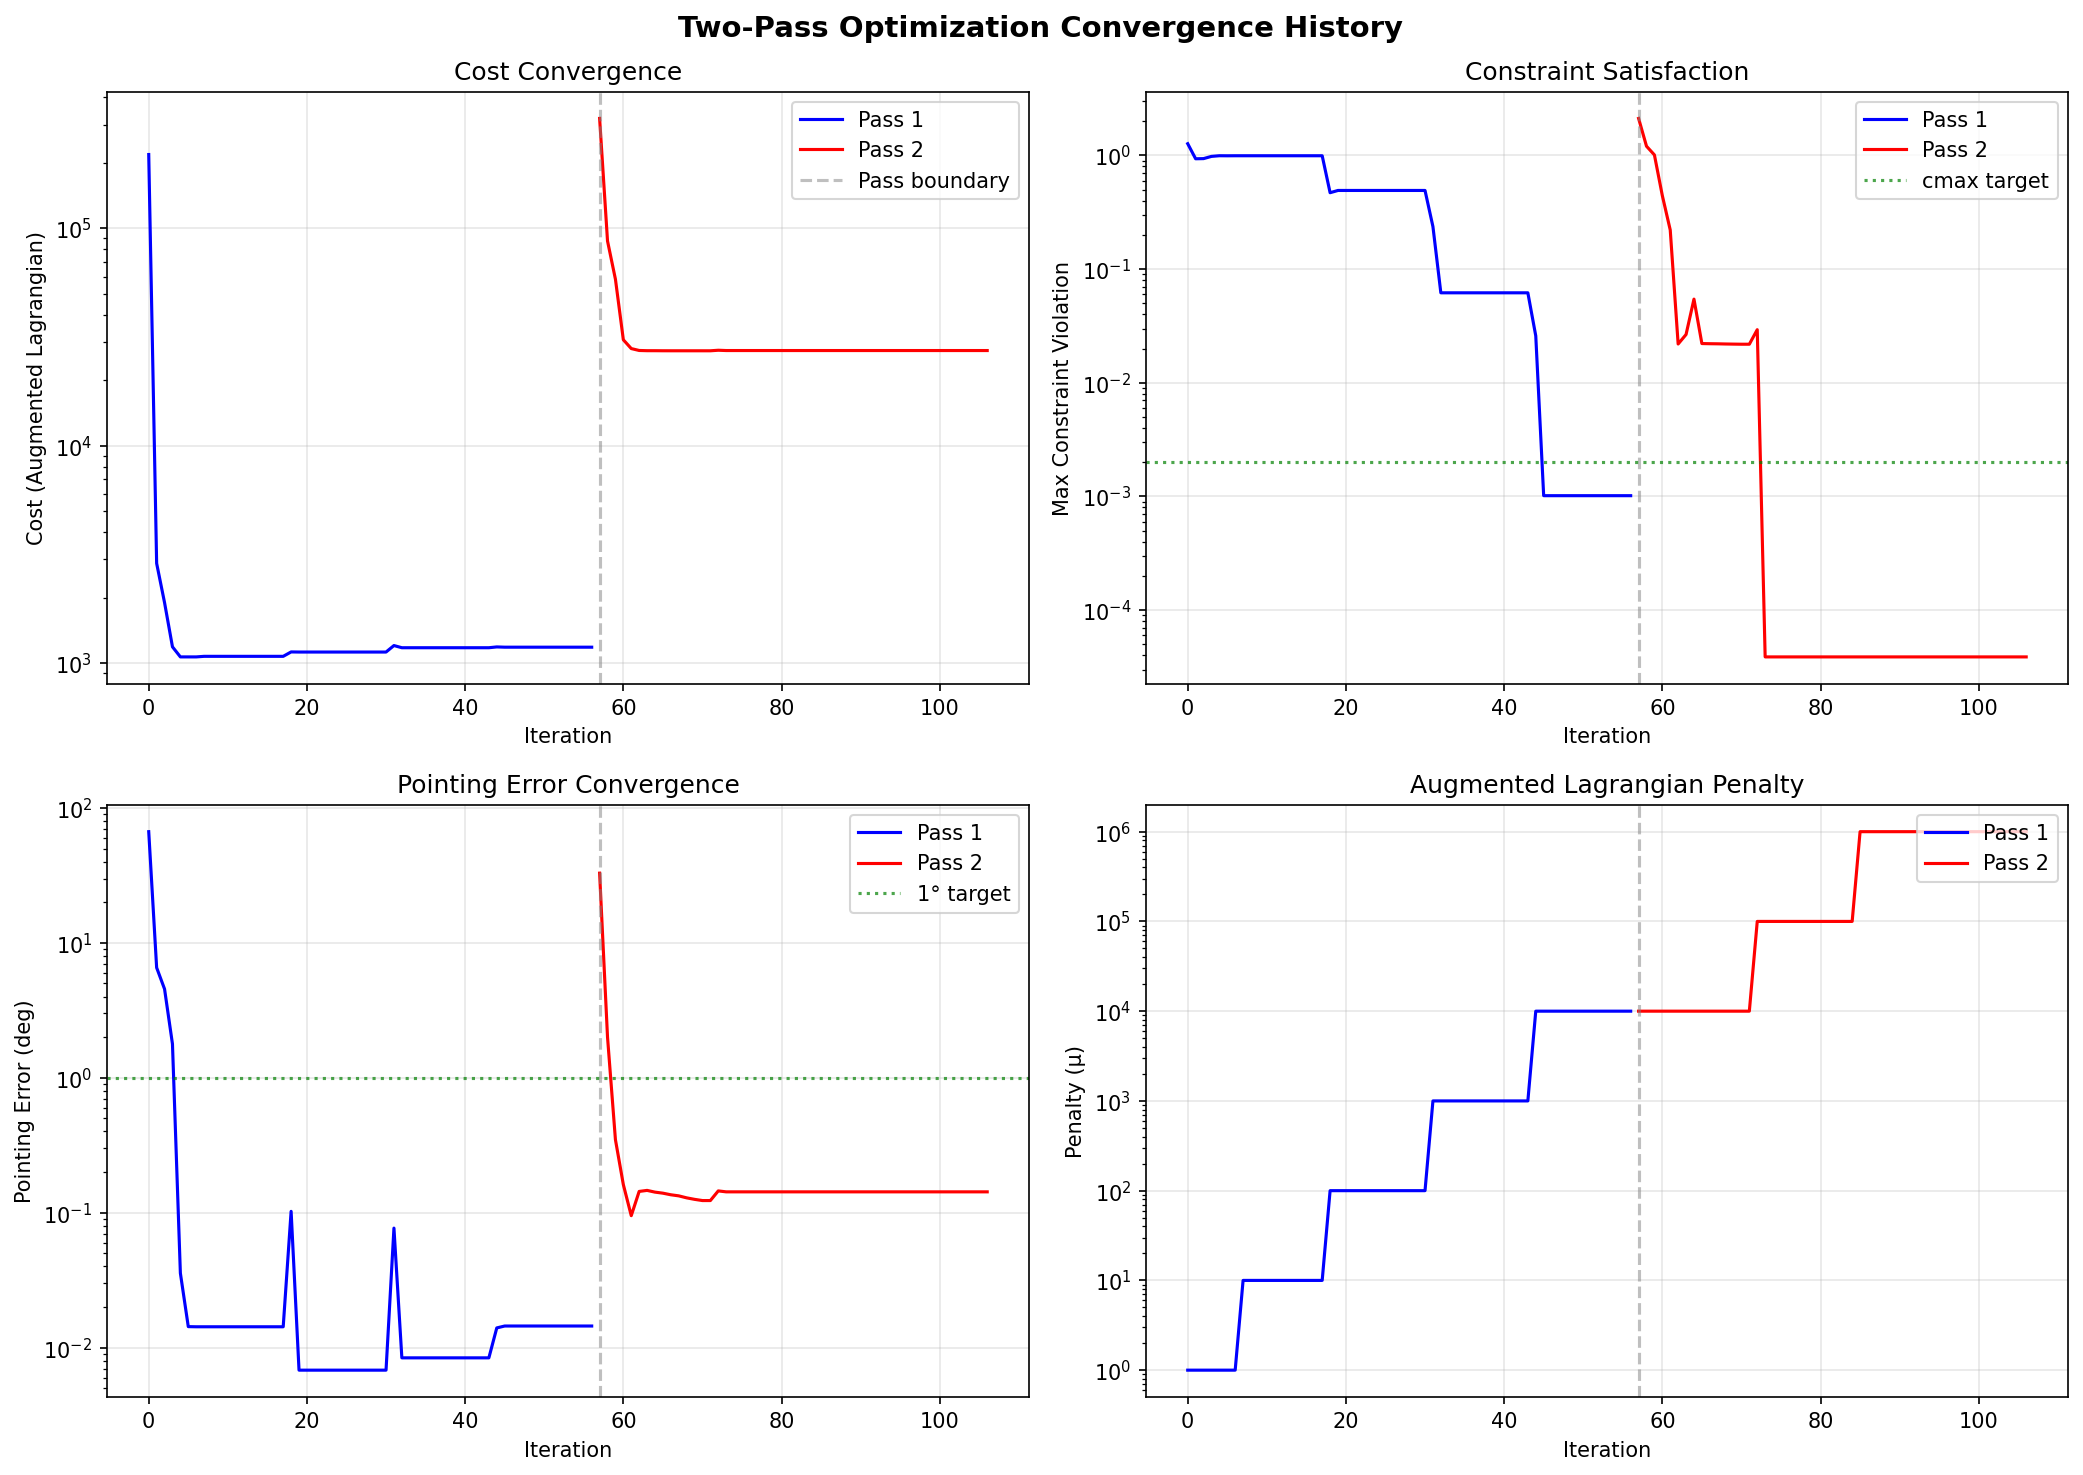
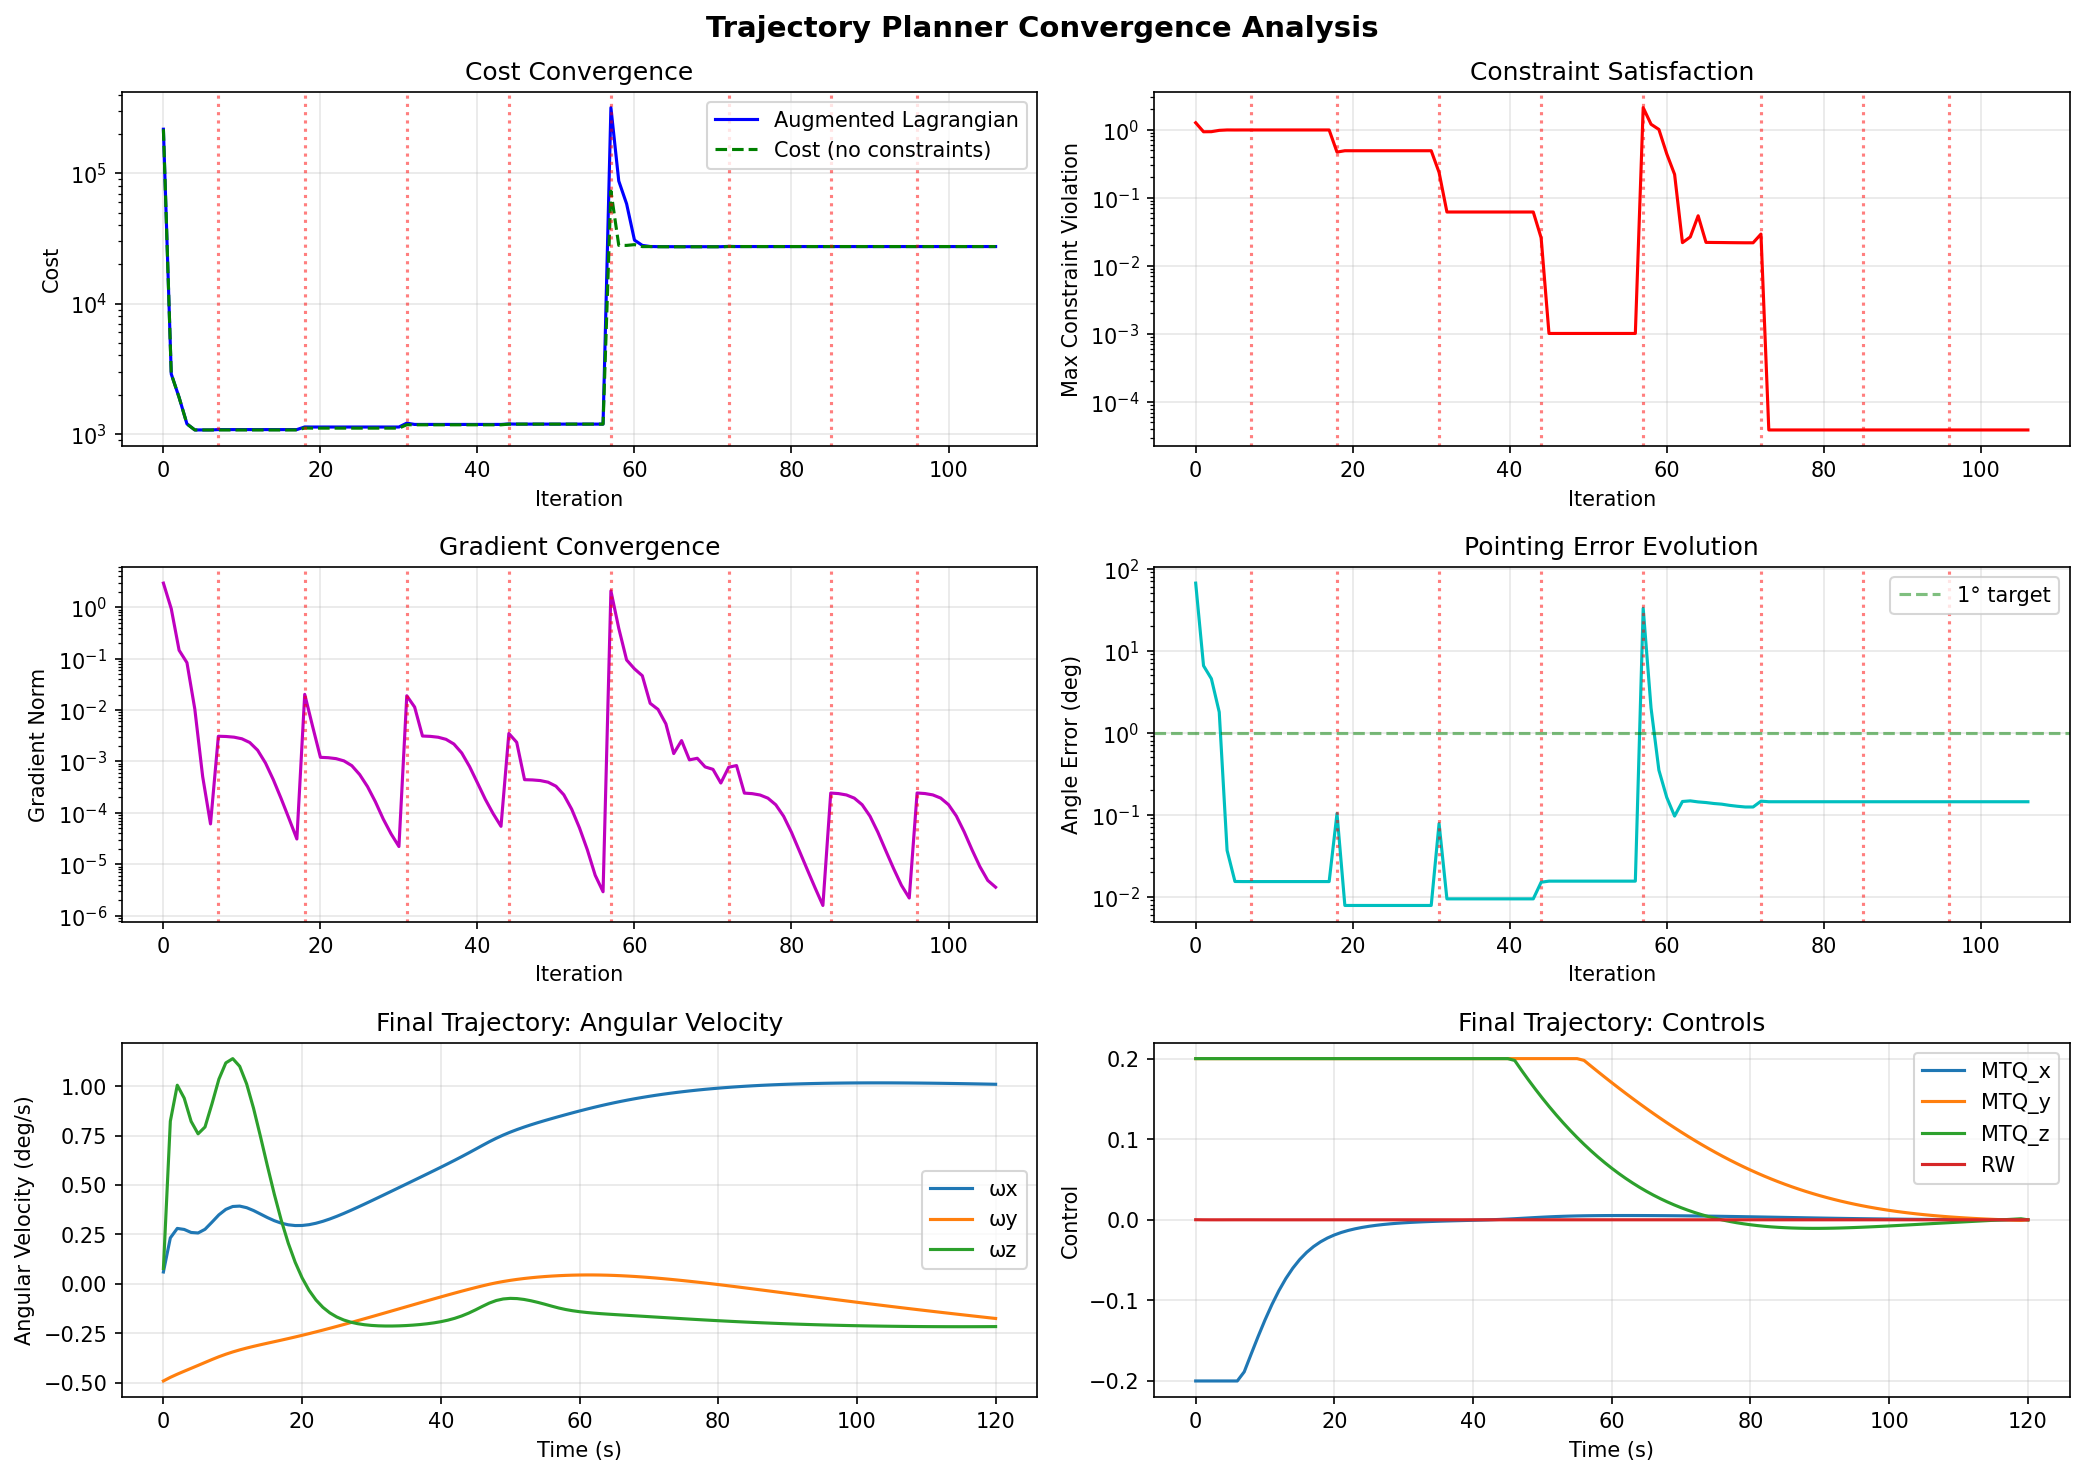
Use comprehensive plot_convergence for two-pass visualization

diff --git a/papers/Planner/visualize_two_pass.py b/papers/Planner/visualize_two_pass.py
@@ -259,89 +259,15 @@ def main():
     print("\nLive visualization saved.")
     
     # =========================================================================
-    # CONVERGENCE HISTORY PLOT (separate window)
+    # CONVERGENCE ANALYSIS PLOT (separate window)
     # =========================================================================
-    print("\nGenerating convergence history plot...")
+    print("\nGenerating convergence analysis plot...")
     
-    fig2, axes = plt.subplots(2, 2, figsize=(14, 10))
-    fig2.suptitle('Two-Pass Optimization Convergence History', fontsize=14, fontweight='bold')
+    # Use the comprehensive plot_convergence function
+    from papers.Planner.visualize_iteration_convergence import plot_convergence
     
-    # Combine all iterations
-    all_iters = all_iterations
-    total_iters = list(range(len(all_iters)))
-    
-    # Find Pass1/Pass2 boundary
-    pass1_end = result1.total_inner_iters
-    
-    # Extract data
-    costs = [it.LA for it in all_iters]
-    cmaxs = [max(it.cmax, 1e-16) for it in all_iters]
-    grads = [max(it.grad, 1e-16) for it in all_iters]
-    mus = [it.mu for it in all_iters]
-    
-    # Compute angle errors
-    angle_errors = []
-    for it in all_iters:
-        q_f = it.Xset[3:7, -1]
-        q_f = q_f / np.linalg.norm(q_f)
-        angle_errors.append(quat_error_angle(q_f, q_goal))
-    
-    # Plot 1: Cost
-    ax = axes[0, 0]
-    ax.semilogy(total_iters[:pass1_end], costs[:pass1_end], 'b-', linewidth=1.5, label='Pass 1')
-    ax.semilogy(total_iters[pass1_end:], costs[pass1_end:], 'r-', linewidth=1.5, label='Pass 2')
-    ax.axvline(x=pass1_end, color='gray', linestyle='--', alpha=0.5, label='Pass boundary')
-    ax.set_xlabel('Iteration')
-    ax.set_ylabel('Cost (Augmented Lagrangian)')
-    ax.set_title('Cost Convergence')
-    ax.legend(loc='upper right')
-    ax.grid(True, alpha=0.3)
-    
-    # Plot 2: Constraint violation
-    ax = axes[0, 1]
-    ax.semilogy(total_iters[:pass1_end], cmaxs[:pass1_end], 'b-', linewidth=1.5, label='Pass 1')
-    ax.semilogy(total_iters[pass1_end:], cmaxs[pass1_end:], 'r-', linewidth=1.5, label='Pass 2')
-    ax.axvline(x=pass1_end, color='gray', linestyle='--', alpha=0.5)
-    ax.axhline(y=0.002, color='green', linestyle=':', alpha=0.7, label='cmax target')
-    ax.set_xlabel('Iteration')
-    ax.set_ylabel('Max Constraint Violation')
-    ax.set_title('Constraint Satisfaction')
-    ax.legend(loc='upper right')
-    ax.grid(True, alpha=0.3)
-    
-    # Plot 3: Pointing error
-    ax = axes[1, 0]
-    ax.semilogy(total_iters[:pass1_end], angle_errors[:pass1_end], 'b-', linewidth=1.5, label='Pass 1')
-    ax.semilogy(total_iters[pass1_end:], angle_errors[pass1_end:], 'r-', linewidth=1.5, label='Pass 2')
-    ax.axvline(x=pass1_end, color='gray', linestyle='--', alpha=0.5)
-    ax.axhline(y=1.0, color='green', linestyle=':', alpha=0.7, label='1° target')
-    ax.set_xlabel('Iteration')
-    ax.set_ylabel('Pointing Error (deg)')
-    ax.set_title('Pointing Error Convergence')
-    ax.legend(loc='upper right')
-    ax.grid(True, alpha=0.3)
-    
-    # Plot 4: Penalty (mu)
-    ax = axes[1, 1]
-    ax.semilogy(total_iters[:pass1_end], mus[:pass1_end], 'b-', linewidth=1.5, label='Pass 1')
-    ax.semilogy(total_iters[pass1_end:], mus[pass1_end:], 'r-', linewidth=1.5, label='Pass 2')
-    ax.axvline(x=pass1_end, color='gray', linestyle='--', alpha=0.5)
-    ax.set_xlabel('Iteration')
-    ax.set_ylabel('Penalty (μ)')
-    ax.set_title('Augmented Lagrangian Penalty')
-    ax.legend(loc='upper right')
-    ax.grid(True, alpha=0.3)
-    
-    plt.tight_layout()
-    
-    # Save convergence plot
     conv_path = "/home/pmckeen/Generalized_ADCS/papers/Planner/figures/two_pass_convergence.png"
-    fig2.savefig(conv_path, dpi=150, bbox_inches='tight')
-    print(f"Convergence plot saved to {conv_path}")
-    
-    # Show both figures
-    print("\nClose the figures to exit.")
-    plt.show()
+    plot_convergence(all_iterations, q_goal, save_path=conv_path)
 
 
 if __name__ == "__main__":
